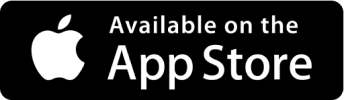
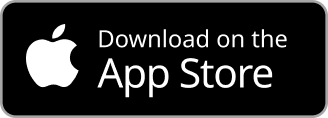
Implemented QR code and send link to phone

Changed region(s): [[0.2744, 0.15, 0.9146, 0.9], [0.0, 0.0, 1.0, 1.0], [0.061, 0.15, 0.2439, 0.81]]

diff --git a/lib/ui/pages/main/pages/home/widgets/wide/widgets/wide_download_widget.dart b/lib/ui/pages/main/pages/home/widgets/wide/widgets/wide_download_widget.dart
@@ -1,0 +1,181 @@
+import 'package:flutter/foundation.dart';
+import 'package:flutter/material.dart';
+import 'package:flutter_riverpod/flutter_riverpod.dart';
+import 'package:ifyk_landing/constants/color_palette.dart';
+import 'package:ifyk_landing/ui/utils/size_util.dart';
+import 'package:ifyk_landing/ui/widgets/png_asset.dart';
+import 'package:url_launcher/url_launcher.dart';
+
+class WideDownloadWidget extends ConsumerWidget {
+  const WideDownloadWidget({super.key});
+
+  @override
+  Widget build(BuildContext context, WidgetRef ref) {
+    const double maxWidth = 1500;
+    final screenWidth = SizeUtil.screenWidth(context) < maxWidth ? SizeUtil.screenWidth(context) : maxWidth;
+    final isTablet = defaultTargetPlatform == TargetPlatform.iOS || defaultTargetPlatform == TargetPlatform.android;
+    if(isTablet){
+      return Row(
+        children: [
+          Flexible(
+            child: Padding(
+              padding: EdgeInsets.only(top: screenWidth/30),
+              child: Row(
+                crossAxisAlignment: CrossAxisAlignment.start,
+                children: [
+                  SizedBox(width: screenWidth/30),
+                  Flexible(
+                    child: GestureDetector(
+                      onTap: (){
+                        launchUrl(Uri.parse('https://apps.apple.com/us/app/ifyk/id6468367267'));
+                      },
+                      child: const PngAsset(
+                        'app_store',
+                      ),
+                    ),
+                  ),
+                  SizedBox(width: screenWidth/100),
+                  Flexible(
+                    child: GestureDetector(
+                      onTap: (){
+                        launchUrl(Uri.parse('https://play.google.com/store/apps/details?id=com.ifyk'));
+                      },
+                      child: const PngAsset(
+                        'google_play',
+                      ),
+                    ),
+                  ),
+                ],
+              ),
+            ),
+          ),
+          SizedBox(width: screenWidth/100),
+          PngAsset('fire', width: screenWidth/35),
+          SizedBox(width: screenWidth/20),
+        ],
+      );
+    } else {
+      return Padding(
+        padding: const EdgeInsets.only(top: 20),
+        child: Column(
+          crossAxisAlignment: CrossAxisAlignment.center,
+          children: [
+            Row(
+              mainAxisSize: MainAxisSize.min,
+              children: [
+                PngAsset(
+                  'app_store_qr',
+                  width: screenWidth/6 ,
+                ),
+                SizedBox(width: screenWidth/40),
+                SizedBox(
+                  width: screenWidth/6,
+                  child: Column(
+                    children: [
+                      GestureDetector(
+                        onTap: (){
+                          launchUrl(Uri.parse('https://apps.apple.com/us/app/ifyk/id6468367267'));
+                        },
+                        child: const PngAsset(
+                          'app_store',
+                        ),
+                      ),
+                      const SizedBox(height: 20),
+                      GestureDetector(
+                        onTap: (){
+                          launchUrl(Uri.parse('https://play.google.com/store/apps/details?id=com.ifyk'));
+                        },
+                        child: const PngAsset(
+                          'google_play',
+                        ),
+                      ),
+                    ],
+                  ),
+                ),
+              ],
+            ),
+            const SizedBox(height: 20),
+            Row(
+              children: [
+                Expanded(
+                  child: Container(
+                    margin: EdgeInsets.only(
+                      left: screenWidth/30,
+                      right: screenWidth/200,
+                    ),
+                    height: 2,
+                    color: Colors.white,
+                  ),
+                ),
+                Text("OR", style: TextStyle(fontSize: screenWidth/80),),
+                Expanded(
+                  child: Container(
+                      height: 2,
+                      margin: EdgeInsets.only(
+                        right: screenWidth/30,
+                        left: screenWidth/200,
+                      ),
+                      color: Colors.white
+                  ),
+                ),
+              ],
+            ),
+            const SizedBox(height: 20),
+            Text("Enter your phone number to get a download link", textAlign: TextAlign.center, style: TextStyle(fontSize: screenWidth/68)),
+            const SizedBox(height: 30),
+            SizedBox(
+              width: screenWidth/2.75,
+              child: Row(
+                children: [
+                  Flexible(
+                    flex: 7,
+                    child: TextFormField(
+                      // controller: _nameController,
+                      validator: (value) => value?.isEmpty ?? true ? "Required" : null,
+                      decoration: InputDecoration(
+                          hintText: "Enter a phone number",
+                          filled: true,
+                          fillColor: ColorPalette.jumpToBgColor,
+                          border: OutlineInputBorder(
+                            borderRadius: BorderRadius.circular(10),
+                            borderSide: BorderSide.none,
+                          )
+                      ),
+                    ),
+                  ),
+                  SizedBox(width: screenWidth/70),
+                  Flexible(
+                    flex: 4,
+                    child: SizedBox(
+                      height: 54,
+                      width: double.infinity,
+                      child: ElevatedButton(
+                        onPressed: (){},
+                        style: ElevatedButton.styleFrom(
+                            backgroundColor: ColorPalette.primary,
+                            foregroundColor: Colors.black,
+                            shape: RoundedRectangleBorder(
+                                borderRadius: BorderRadius.circular(10),
+                            )
+                          ,
+                        ),
+                        child: Text(
+                          'Send Link',
+                          style: TextStyle(
+                            fontWeight: FontWeight.bold,
+                            fontSize: screenWidth/90,
+                          ),
+                        ),
+                      ),
+                    ),
+                  ),
+                  // SizedBox(width: screenWidth/30),
+                ],
+              ),
+            ),
+          ],
+        ),
+      );
+    }
+  }
+}

diff --git a/lib/ui/pages/main/pages/home/widgets/wide/home_wide_content.dart b/lib/ui/pages/main/pages/home/widgets/wide/home_wide_content.dart
@@ -5,17 +5,22 @@ import 'package:flutter/material.dart';
 import 'package:flutter/widgets.dart';
 import 'package:google_fonts/google_fonts.dart';
 import 'package:ifyk_landing/constants/color_palette.dart';
+import 'package:ifyk_landing/ui/pages/main/pages/home/widgets/wide/widgets/wide_download_widget.dart';
 import 'package:ifyk_landing/ui/pages/main/pages/home/widgets/wide/widgets/wide_feedbacks_section.dart';
 import 'package:ifyk_landing/ui/pages/main/pages/home/widgets/wide/widgets/wide_footer.dart';
 import 'package:ifyk_landing/ui/pages/main/widgets/wide_wrapper.dart';
 import 'package:ifyk_landing/ui/utils/size_util.dart';
 import 'package:ifyk_landing/ui/widgets/png_asset.dart';
-import 'package:url_launcher/url_launcher.dart';
 
-class HomeWideContent extends StatelessWidget {
+class HomeWideContent extends StatefulWidget {
   final TabsRouter tabsRouter;
   const HomeWideContent({super.key, required this.tabsRouter});
 
+  @override
+  State<HomeWideContent> createState() => _HomeWideContentState();
+}
+
+class _HomeWideContentState extends State<HomeWideContent> {
   @override
   Widget build(BuildContext context) {
     const double maxWidth = 1500;
@@ -38,57 +43,19 @@ class HomeWideContent extends StatelessWidget {
                             crossAxisAlignment: CrossAxisAlignment.start,
                             mainAxisSize: MainAxisSize.min,
                             children: [
-                              SizedBox(height: screenWidth/7),
+                              SizedBox(height: screenWidth/8),
                               const PngAsset('all_events_one_place'),
-                              // SizedBox(height: screenWidth/100),
-                              Row(
-                                children: [
-                                  Flexible(
-                                    child: Padding(
-                                      padding: EdgeInsets.only(top: screenWidth/30),
-                                      child: Row(
-                                        crossAxisAlignment: CrossAxisAlignment.start,
-                                        children: [
-                                          SizedBox(width: screenWidth/30),
-                                          Flexible(
-                                            child: GestureDetector(
-                                              onTap: (){
-                                                launchUrl(Uri.parse('https://apps.apple.com/us/app/ifyk/id6468367267'));
-                                              },
-                                              child: const PngAsset(
-                                                'app_store',
-                                              ),
-                                            ),
-                                          ),
-                                          SizedBox(width: screenWidth/100),
-                                          Flexible(
-                                            child: GestureDetector(
-                                              onTap: (){
-                                                launchUrl(Uri.parse('https://play.google.com/store/apps/details?id=com.ifyk'));
-                                              },
-                                              child: const PngAsset(
-                                                'google_play',
-                                              ),
-                                            ),
-                                          ),
-                                        ],
-                                      ),
-                                    ),
-                                  ),
-                                  SizedBox(width: screenWidth/100),
-                                  PngAsset('fire', width: screenWidth/35,),
-                                  SizedBox(width: screenWidth/20),
-                                ],
-                              ),
-                              Row(
-                                children: [
-                                  SizedBox(width: screenWidth/30),
-                                  Padding(
-                                    padding: EdgeInsets.only(top: screenWidth/50),
-                                    child: PngAsset('party', width: screenWidth/35,),
-                                  ),
-                                ],
-                              ),
+                              const WideDownloadWidget(),
+                              SizedBox(height: screenWidth/15,)
+                              // Row(
+                              //   children: [
+                              //     SizedBox(width: screenWidth/30),
+                              //     Padding(
+                              //       padding: EdgeInsets.only(top: screenWidth/50),
+                              //       child: PngAsset('party', width: screenWidth/35,),
+                              //     ),
+                              //   ],
+                              // ),
                             ],
                           ),
                         ),

diff --git a/lib/ui/pages/main/pages/home/widgets/wide/widgets/wide_footer.dart b/lib/ui/pages/main/pages/home/widgets/wide/widgets/wide_footer.dart
@@ -4,9 +4,9 @@ import 'package:flutter/material.dart';
 import 'package:google_fonts/google_fonts.dart';
 import 'package:ifyk_landing/constants/color_palette.dart';
 import 'package:ifyk_landing/router/router.gr.dart';
+import 'package:ifyk_landing/ui/pages/main/pages/home/widgets/wide/widgets/wide_download_widget.dart';
 import 'package:ifyk_landing/ui/utils/size_util.dart';
 import 'package:ifyk_landing/ui/widgets/png_asset.dart';
-import 'package:url_launcher/url_launcher.dart';
 
 class WideFooter extends StatelessWidget {
   final double topPadding;
@@ -15,14 +15,18 @@ class WideFooter extends StatelessWidget {
   @override
   Widget build(BuildContext context) {
     final tabsRouter = AutoTabsRouter.of(context);
-    const double maxWidth = 1000;
+    const double maxWidth = 800;
     final screenWidth = SizeUtil.screenWidth(context) < maxWidth ? SizeUtil.screenWidth(context) : maxWidth;
     return SizedBox(
       width: double.infinity,
       child: Stack(
         children: <Widget>[
-          const Positioned.fill(child: PngAsset('footer_glow')),
+          const Positioned.fill(
+            top: 120,
+            child: PngAsset('footer_glow'),
+          ),
           Column(
+            mainAxisSize: MainAxisSize.min,
             children: [
               SizedBox(height: topPadding),
               Padding(
@@ -54,36 +58,15 @@ class WideFooter extends StatelessWidget {
                   ),
                 ),
               ),
-              SizedBox(height: screenWidth/30),
+              SizedBox(height: screenWidth/50),
               Align(
                 alignment: Alignment.topCenter,
                 child: Padding(
-                  padding: EdgeInsets.symmetric(horizontal: screenWidth/3),
-                  child: Row(
-                    mainAxisSize: MainAxisSize.min,
-                    children: [
-                      Flexible(
-                        child: GestureDetector(
-                          onTap: (){
-                            launchUrl(Uri.parse('https://apps.apple.com/us/app/ifyk/id6468367267'));
-                          },
-                          child: const PngAsset('app_store'),
-                        ),
-                      ),
-                      const SizedBox(width: 15),
-                      Flexible(
-                        child: GestureDetector(
-                          onTap: (){
-                            launchUrl(Uri.parse('https://play.google.com/store/apps/details?id=com.ifyk'));
-                          },
-                          child: const PngAsset('google_play'),
-                        ),
-                      ),
-                    ],
-                  ),
+                  padding: EdgeInsets.symmetric(horizontal: screenWidth/3.2),
+                  child: const WideDownloadWidget(),
                 ),
               ),
-              const SizedBox(height: 100),
+              const SizedBox(height: 50),
               Container(
                 margin: EdgeInsets.symmetric(horizontal: screenWidth/20),
                 width: double.infinity,

diff --git a/lib/ui/pages/main/pages/contact/widgets/compact/contact_compact_content.dart b/lib/ui/pages/main/pages/contact/widgets/compact/contact_compact_content.dart
@@ -72,6 +72,7 @@ class _ContactCompactContentState extends State<ContactCompactContent> {
   @override
   Widget build(BuildContext context) {
     return SingleChildScrollView(
+      physics: const ClampingScrollPhysics(),
       child: Column(
         children: [
           Padding(

diff --git a/lib/ui/pages/main/pages/home/widgets/compact/home_compact_content.dart b/lib/ui/pages/main/pages/home/widgets/compact/home_compact_content.dart
@@ -44,6 +44,7 @@ class _HomeCompactContentState extends State<HomeCompactContent> {
   @override
   Widget build(BuildContext context) {
     return SingleChildScrollView(
+      physics: const ClampingScrollPhysics(),
       child: Column(
         children: [
           const Padding(

diff --git a/lib/ui/pages/main/pages/about/widgets/compact/about_compact_content.dart b/lib/ui/pages/main/pages/about/widgets/compact/about_compact_content.dart
@@ -39,6 +39,7 @@ class AboutCompactContent extends StatelessWidget {
     }
 
     return SingleChildScrollView(
+      physics: const ClampingScrollPhysics(),
       child: Column(
         children: [
           Padding(
